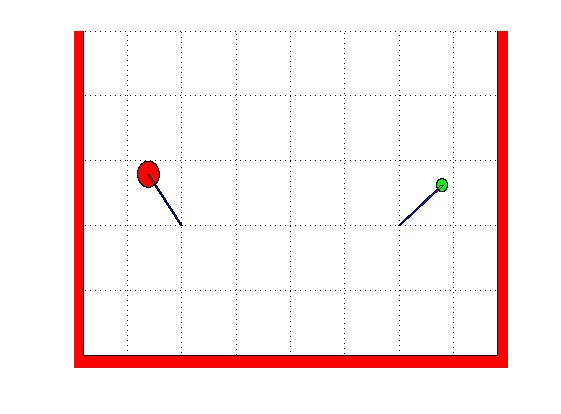
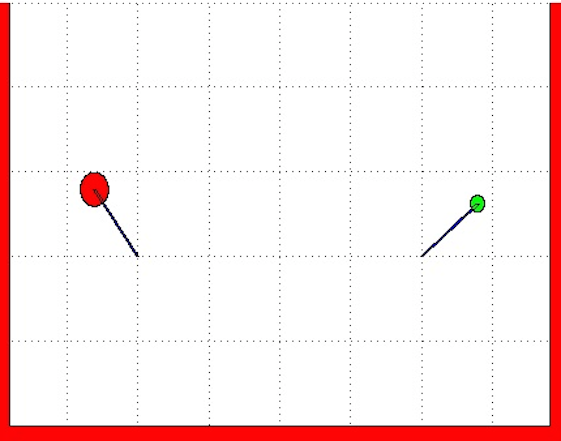
Bilder är inlagda och lite ditten och datten

diff --git a/report.tex b/report.tex
@@ -17,7 +17,6 @@
 \headheight       12pt
 \setlength{\topmargin}{-\headsep}
 \addtolength{\topmargin}{-\headheight}
-%\oddsidemargin      0in
 \evensidemargin 0in
 \setlength{\textwidth}{\paperwidth}
 \addtolength{\textwidth}{-2.0in}
@@ -30,7 +29,6 @@
 
 
 \title{Angry Cuts}
-%\date{2014-02-13}
 \author{Anton Alb\`{e}rt Karlstr\"{o}m, Lovisa Dahl, \\Emma Edvardsson
  and Hannes Ingelhag, \\Norrk\"{o}ping}
 
@@ -102,8 +100,9 @@ Another purpose with this project is to use Matlab to test and develop the model
 \section{Physical model}
 The first part of this project was to find the physical description of the first two parts of the model: the pendulum and the projectile movement. The second part was to implement collision handler and air resistance. 
 \subsection{Pendulum}
-A physical model of a nonlinear pendulum (1) was required since the system operates with large angles. \cite{Nor:06} \cite{Hal:10} \\ \\
-$\frac{d^2\theta}{dt^2} + \frac{g}{L}*sin(\theta(t)) = 0$ \hfill (1) \\ 
+A physical model of a nonlinear pendulum (1)\footnote{See \cite[p.~64]{Hal:10}} was required since the system operates with large angles. \cite{Nor:06} \\ \\
+$\frac{d^2\theta}{dt^2} + \frac{g}{L}*sin(\theta(t)) = 0$ \hfill (1) \\  
+
 Figure 3 illustrates the model of the pendulum, $g$ represents the gravity constant, $L$ the length of the rope of the pendulum and $\theta$ is the angle of the pendulum perpendicular to the gravity.  $\frac{d^2\theta}{dt^2}$, the angular acceleration, is the relationship between the position of the weight and the angle perpendicular to gravity.
 
  \begin{table}[h!]
@@ -117,7 +116,7 @@ Figure 3 illustrates the model of the pendulum, $g$ represents the gravity const
     \end{minipage}
     & 
   \begin{minipage}{0.5\textwidth}
-      \includegraphics[height=60mm]{bilder/projectile_dynamics.png}
+      \includegraphics[height=60mm]{bilder/projectile_dynamics_new.png}
      \centering
       \captionsetup{justification=raggedright, singlelinecheck=false}
       \captionof{figure}{Initial dynamics of the projectile}
@@ -126,7 +125,7 @@ Figure 3 illustrates the model of the pendulum, $g$ represents the gravity const
 \end{table}
 
 \subsection{Projectile}
-When the rope was cut, the outcoming velocity from the pendulum movement was captured as the initial velocity for the projectile movement. In order to transfer the movement into projectile, illustrated in Fig. 4, the velocity was split into horizontal (2) and vertical velocity (3). The angle ${\theta_i}$ between the velocity vector and the horizon determined the magnitude of $v_x(t)$ and $v_y(t)$. The acceleration (4) was derived with the same method, although the vertical velocity, which also gravity was acting on. 
+When the rope was cut, the outcoming velocity from the pendulum movement was captured as the initial velocity for the projectile movement. In order to transfer the movement into projectile, illustrated in Fig. 4, the velocity was split into horizontal (2)\footnote{See \cite[p.~396]{Hal:10}}  and vertical velocity (3). The angle ${\theta_i}$ between the velocity vector and the horizon determined the magnitude of $v_x(t)$ and $v_y(t)$. The acceleration (4) was derived with the same method, although the vertical velocity, which also gravity was acting on. 
  \\ \\
 $v_x(t) = v_{out}(t) * cos(\theta_i(t))$ \hfill (2) \\
 $v_y(t) = v_{out}(t) * sin(\theta_i(t))$ \hfill (3) \\
@@ -199,7 +198,7 @@ $y(t + h) = y(t) + f(t,y(t))*h$  \hfill (10) \\
 
 In (10), $h$ denotes the step length, $y(t)$ is the function and $f$ describes the derivative of $y$.
 \subsubsection{Runge-Kutta method}
-Runge-Kutta is another numerical method. Compared to Euler it gives a more stable system and can be used with a larger step size. The most common form of the Runge-Kutta is RK4, a fourth order method, which is described in (11).\\ \\
+Runge-Kutta\footnote{See \cite{Mat:04}} is another numerical method. Compared to Euler it gives a more stable system and can be used with a larger step size. The most common form of the Runge-Kutta is RK4, a fourth order method, which is described in (11).\\ \\
 $k_1 = h*f(x_i, y_i) $ \\ \
 $k_2 = h*f(x_i + 0.5*h, y_i + 0.5*k_1) $ \\
 $k_3 = h*f(x_i + 0.5*h, y_i + 0.5*k_2)$ \hfill (11) \\
@@ -208,10 +207,27 @@ $k_4 = h*f(x_i + h, y_i + k_3)$ \\
 By using these four equations the next step can be calculated according to (12). \\ \\
 $ y(i+1) = y(i) + \frac{1}{6}( k_1 + 2*k_2 + 2*k_3 + k_4) $ \hfill (12)
 
-\subsubsection{Implmentation of numerical methods}
+\subsubsection{Implementation of numerical methods}
 
-EulerBILD
-Runge-KuttaBILD
+\begin{table}[h!]
+  \centering
+  \begin{tabular}{c c}
+      \begin{minipage}{0.5\textwidth}
+      \vspace{1.2cm}
+      \includegraphics[width=\linewidth]{bilder/eulerCode.png}
+      \centering
+      \captionsetup{justification=centering, singlelinecheck=false}
+      \captionof{figure}{Implementation of Euler$'$s \\explicit method}
+    \end{minipage}
+    &
+  \begin{minipage}{0.5\textwidth}
+      \includegraphics[width=\linewidth]{bilder/rungeKuttaCode.png}
+    %  \centering
+      \captionsetup{justification=centering, singlelinecheck=false}
+      \captionof{figure}{Implementation of \\Runge-Kutta}
+    \end{minipage} \\
+  \end{tabular}
+\end{table}
 
 \subsection{Graphical implementation}
 \subsubsection{MATLAB}
@@ -225,7 +241,7 @@ The second part was to add interaction between two weights in the same room. Thi
         \begin{minipage}{0.5\textwidth}
       \includegraphics[width=\linewidth, width=60mm]{bilder/Matlab_Pendulum1.png}
       \centering
-%      \captionsetup{justification=raggedright, singlelinecheck=false}
+     % \captionsetup{justification=raggedright, singlelinecheck=false}
       \captionof{figure}{Plot of one pendulum}
     \end{minipage}
     & 
@@ -255,7 +271,7 @@ A possibility to change the number of weights in the scene was implemented, in s
    \end{minipage}
     & 
    \begin{minipage}{0.5\textwidth}
-   \vspace{1.8cm}
+   \vspace{1.3cm}
      \includegraphics[width=\linewidth, width=60mm]{bilder/OpenGL_bounce0.png}
      \centering
      \captionof{figure}{One projectile, first version}
@@ -264,12 +280,14 @@ A possibility to change the number of weights in the scene was implemented, in s
 \end{table}
 
 \section{Result}
-The result retrieved from this project is a program where the user could enter the desired number of pendulums in a GUI. The trigger of movement for the pendulums are their initial angle given by the user or in program. During the execution of the program the user could follow the flow of energy in the scene. The weights are positioned depending on the given number and are set to a random color. In Fig. 13 and Fig. 14 seven weights are implemented.
+The result retrieved from this project is a program where the user could enter the desired number of pendulums in a GUI, see Fig.13. The trigger of movement for the pendulums are their initial angle given by the user or in program. During the execution of the program the user could follow the flow of energy in the scene. The weights are positioned depending on the given number and are set to a random color. In Fig. 13 and Fig. 14 seven weights are implemented.
 
 \begin{table}[h!]
   \centering
    \begin{tabular}{c c}
-    \begin{minipage}{0.5\textwidth}
+    \multicolumn{2}{c}
+      {\includegraphics[width=100mm]{bilder/ConsoleAndProgram.png} } \\
+     \begin{minipage}{0.5\textwidth}
       \includegraphics[width=\linewidth, width=60mm]{bilder/OpenGL_pendulum1.png}
       \centering
       \captionof{figure}{Seven weights simulated in OpenGL}
@@ -280,9 +298,9 @@ The result retrieved from this project is a program where the user could enter t
       \centering
       \captionof{figure}{Seven bouncing weights in a room}
     \end{minipage} 
-  \end{tabular}
-\end{table}
-
+    \end{tabular}
+\end{table} 
+ 
 In the first part, the pendulums were affected by air resistance. In this scene the balls have the properties of lead and the air resistance coefficient was calculated from the circular shape. 
 
 
